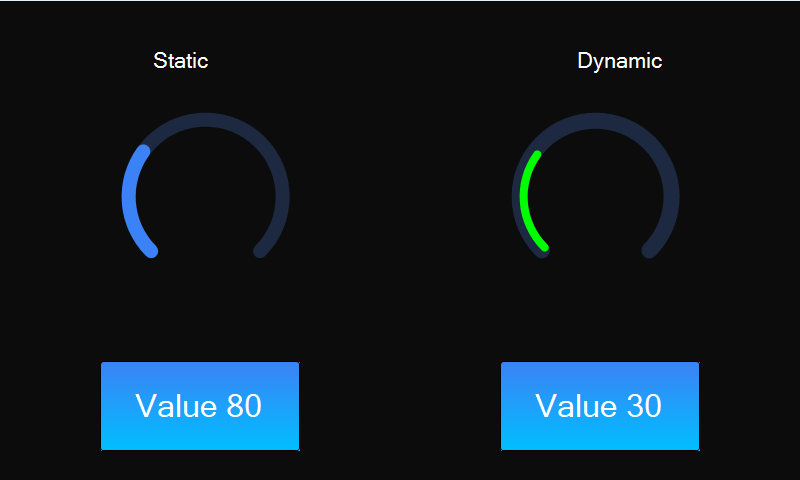
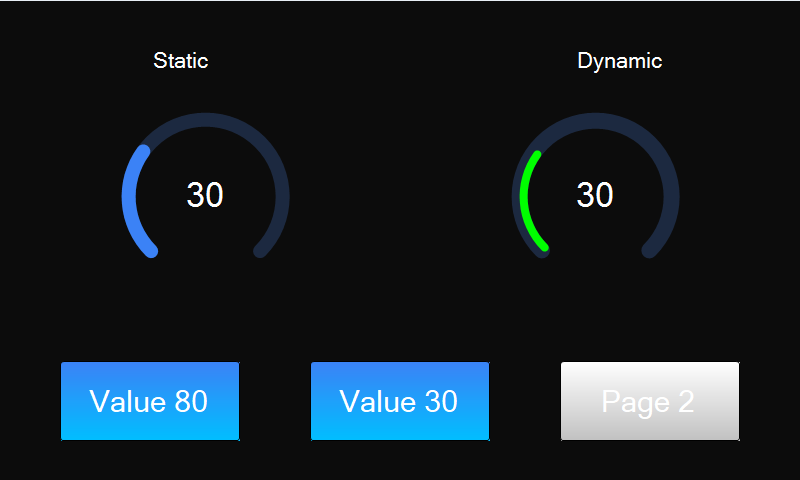
Arc ornegi: yeni format (.airhmi.json), 2 sayfa + merkez deger + sayfa gecisi
Onceki elle yazilan .ahi kaldirildi; ornek kanonik .airhmi.json formatinda
yeniden yazildi. Iki sayfa: Page 1'de statik(mavi/Center) + dinamik
(yesil/Inner border) arc, her birinin ortasinda deger ELabelBox'i (ArcSet +
LabelSet birlikte guncellenir). Page 2'den statik arc uzaktan set edilir ve
donuste korunur; dinamik arc sayfaya ozgu. Merkez label z-order icin order:1.
Simulatorde uctan uca dogrulandi.

Changed region(s): [[0.0625, 0.75, 0.9375, 0.9375], [0.7188, 0.375, 0.7812, 0.4375], [0.2188, 0.375, 0.2812, 0.4375]]

diff --git a/Examples/1-BasicUI/Arc/Arc_Value_Set/README.md b/Examples/1-BasicUI/Arc/Arc_Value_Set/README.md
@@ -10,7 +10,9 @@ ArcSet("Arc2" ,"Value" , "30"); // Arc2 dolumunu %30 yapar.
 
 Arc nesnesi, arkada sabit bir **track (zemin yayı)** ve önde değere göre dolan bir
 **value yayı** olmak üzere iki katmandan oluşur. `Value`, `MinValue` ve `MaxValue`
-değerlerine göre value yayının doluluk oranı hesaplanır.
+değerlerine göre value yayının doluluk oranı hesaplanır. Ortadaki sayısal değer arc'a
+gömülü değildir; ayrı bir `ELabelBox` ile gösterilir ve butonda `LabelSet` ile arc
+değeriyle birlikte güncellenir.
 
 Statik ve dinamik olmak üzere iki farklı Arc Value Set durumu üzerinde etkili olan
 faktörler incelenmiştir. Statik Arc lar her sayfadan tüm özelliklerine ulaşılıp
@@ -30,24 +32,33 @@ Arc nesnesinin `ArcSet` / `ArcGet` ile ayarlanabilen belli başlı özellikleri:
 | `Value` | Gösterilen değer (MinValue–MaxValue arası) |
 | `MinValue` / `MaxValue` | Değer aralığı |
 | `StartAngle` / `SweepAngle` | Yayın başlangıç açısı ve toplam açı genişliği (derece) |
-| `TrackColor` / `TrackWidth` | Zemin yayının rengi ve kalınlığı |
+| `TrackColor` / `TrackWidth` | Zemin (arkadaki) yayın rengi ve kalınlığı |
 | `TrackVisible` | Zemin yayının görünürlüğü (0/1) |
-| `ValueColor` / `ValueWidth` | Değer yayının rengi ve kalınlığı |
+| `ValueColor` / `ValueWidth` | Değer (öndeki) yayın rengi ve kalınlığı |
 | `ValueAlign` | Değer yayının hizası: `Inner` / `Center` / `Outer` |
 | `RoundedEnds` | Yay uçlarının yuvarlatılması (0/1) |
 | `Visible` / `Active` / `Left` / `Top` | Ortak özellikler |
 
 ## 🔍 3. Örnek Senaryo
-Bu örnekte sol tarafta **statik** (mavi, Center hizalı), sağ tarafta **dinamik**
-(yeşil, Inner hizalı — kenarlık efekti) iki Arc bulunur. Alttaki iki buton her iki
-Arc ın değerini `ArcSet` ile 80 ve 30 arasında değiştirir.
+Bu örnekte **2 sayfa** vardır.
 
-- `Value 80` butonu: `ArcSet("Arc1","Value","80")` + `ArcSet("Arc2","Value","80")`
-- `Value 30` butonu: `ArcSet("Arc1","Value","30")` + `ArcSet("Arc2","Value","30")`
+**Page 1** — solda **statik** (mavi, Center hizalı), sağda **dinamik** (yeşil, Inner
+hizalı = kenarlık efekti) iki Arc bulunur. Her arc'ın ortasında değeri gösteren bir
+ELabelBox vardır. Alttaki butonlar her iki Arc ın değerini `ArcSet` ile 80/30 yapar ve
+`LabelSet` ile ortadaki sayıyı da günceller. "Page 2" butonu ikinci sayfaya geçer.
+
+- `Value 80`: `ArcSet(Arc1/Arc2,"Value","80")` + `LabelSet(ArcVal1/ArcVal2,"Text","80")`
+- `Value 30`: değerleri 30 yapar
+- `Page 2`: `ChangeScreenSet("Screen2")`
+
+**Page 2** — buradaki "Static 60" butonu **statik Arc1**'i uzaktan (farklı sayfadan)
+60 yapar. "Page 1" ile geri dönülünce statik Arc1'in yeni değeri **korunur**; dinamik
+Arc2 ise sayfaya özgü olduğu için buradan değiştirilemez ve Page 1'e dönünce ilk haliyle
+yeniden oluşur.
 
 ## 🎯 4. Sonuç
-✔ `Value` değeri değiştikçe Arc dolumu anında güncellenir.
-✔ **Statik Arc Value Set** diğer sayfalardan değiştirilebilir.
+✔ `Value` değiştikçe Arc dolumu ve ortadaki sayı anında güncellenir.
+✔ **Statik Arc Value Set** diğer sayfalardan değiştirilebilir ve değeri korunur.
 ✔ **Dinamik Arc Value Set** yalnızca oluşturulduğu sayfada değiştirilebilir.
 
 ### Başlangıç durumu (Value 30)
